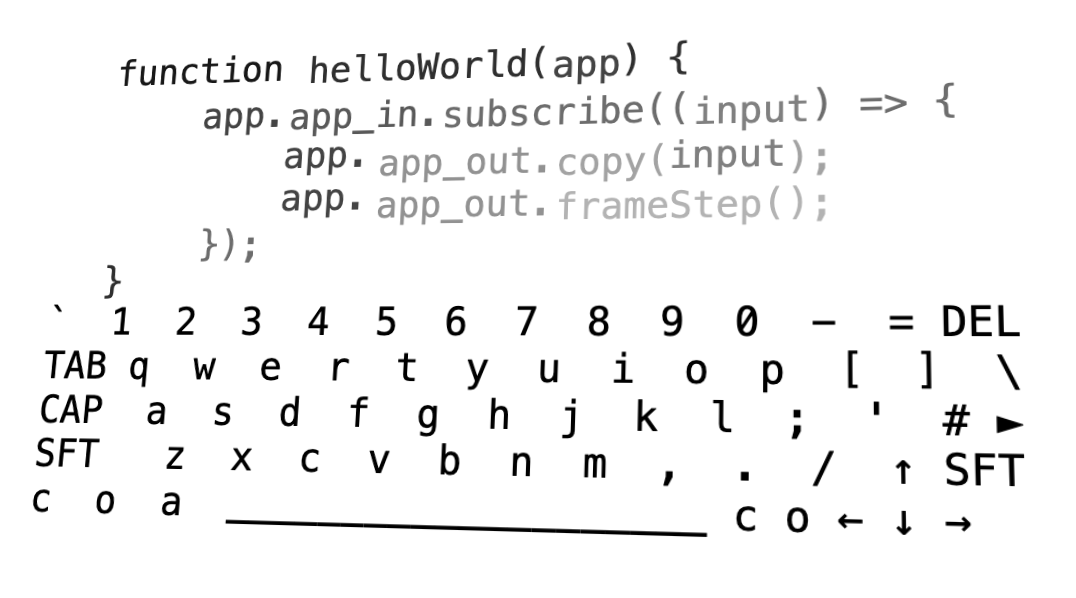
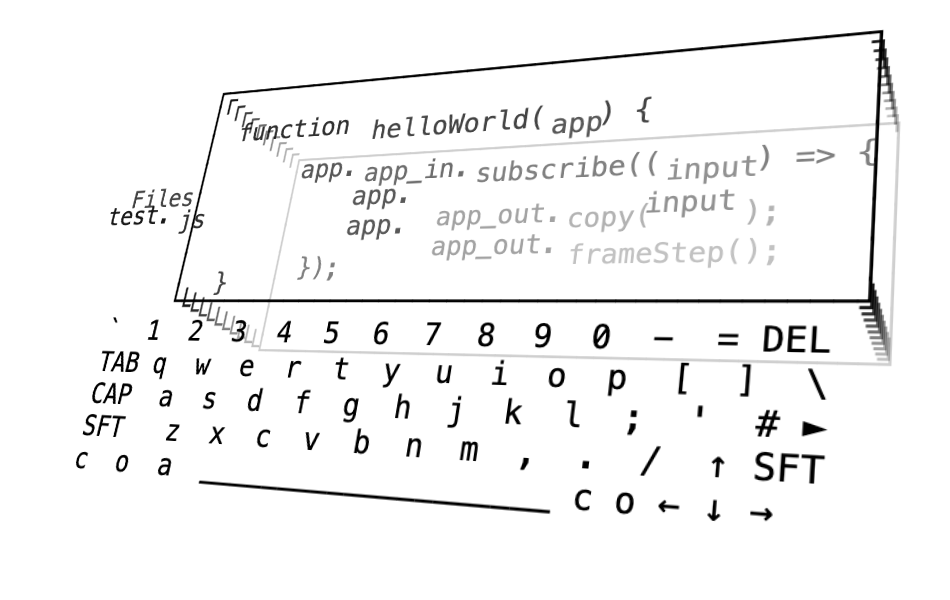
Editor starting to work

diff --git a/lewdo/apps/shapes/editor.js b/lewdo/apps/shapes/editor.js
@@ -20,7 +20,7 @@ var lewdo_editor = {
 
             var keyboard = all_shapes.keyboard();
             var fileList = all_shapes.text(null,"\ntest.js\vFiles");
-            var textEditor = all_shapes.text(null,"Hello World!\n-lewdo");
+            var textEditor = all_shapes.text(null);//,"Hello World!\n-lewdo");
             var aroundText = all_shapes.cube(null, textEditor.app );
             var blades = all_shapes.stack(null,[ fileList.app, aroundText.app ],"x");
 
